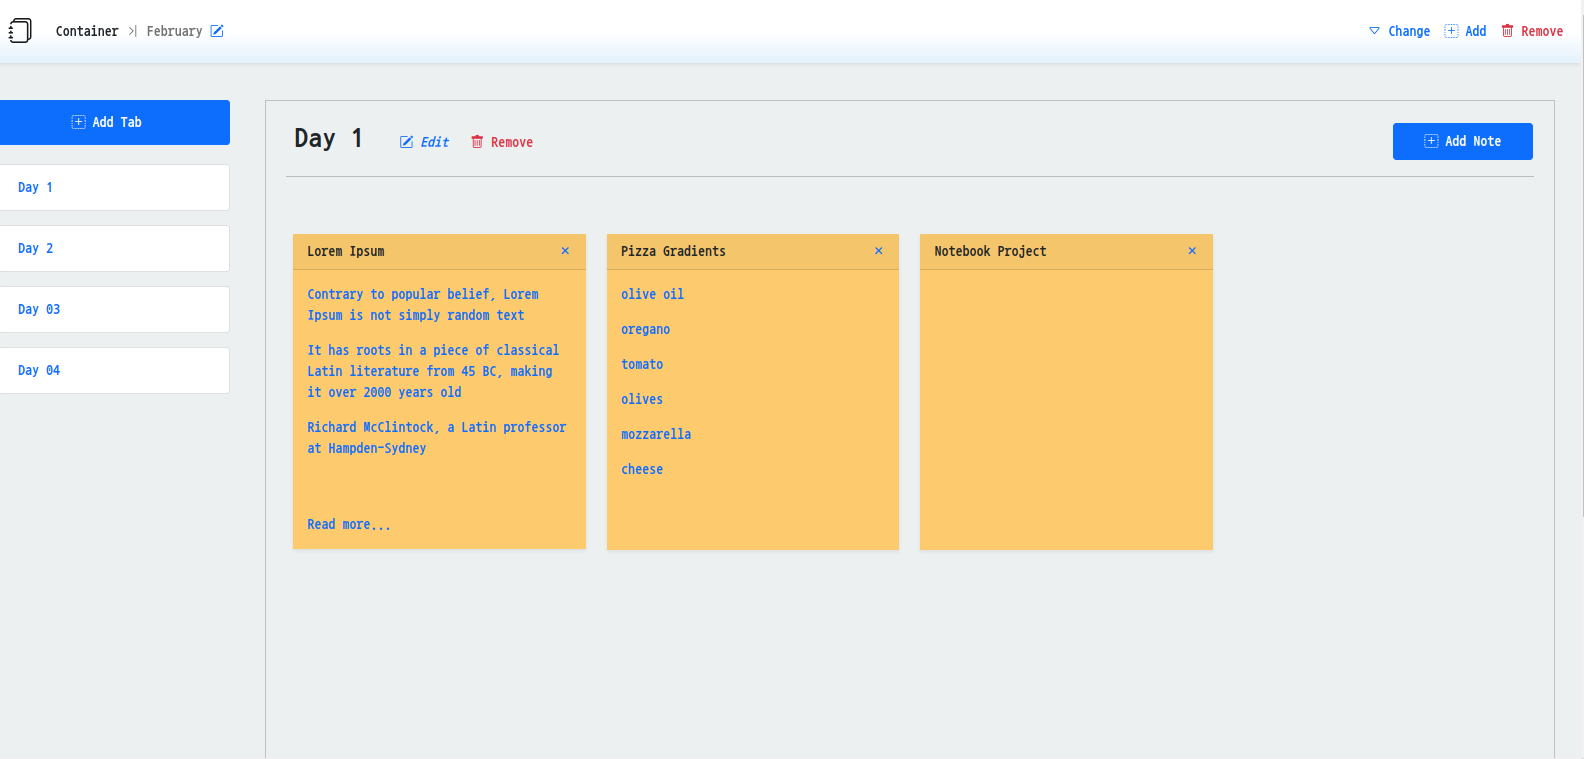
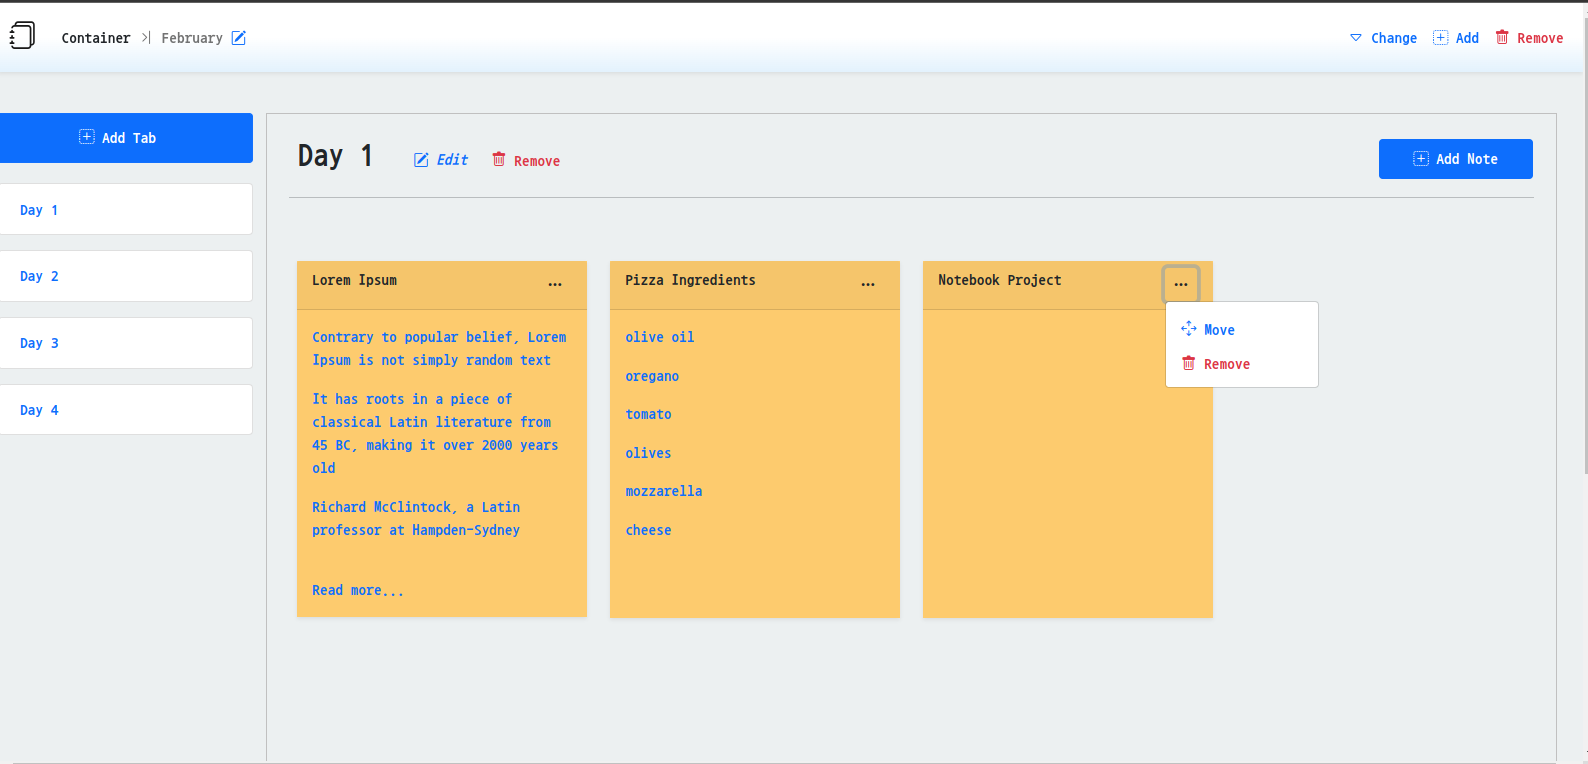
Added move notes

diff --git a/frontend/src/components/Note/NoteMoveTo.vue b/frontend/src/components/Note/NoteMoveTo.vue
@@ -44,15 +44,17 @@
 		methods: {
 			moveTo() {
 				const note = JSON.parse(localStorage.getItem('note'));
-				this.$store.dispatch('moveTo', {noteId: note.id, tabId: this.tabId})
-					.then(() => {
-						this.$store.dispatch('loadNotes', note.tabId);
-						document.querySelector('#note-move-select').selectedIndex = 0;
-						document.querySelector('#note-move-close-btn').click();
-					})
-					.catch((err) => {
-						console.log(err);
-					});
+				if(!note.tabId !== this.tabId) {
+					this.$store.dispatch('moveTo', {noteId: note.id, tabId: this.tabId})
+						.then(() => {
+							this.$store.dispatch('loadNotes', note.tabId);
+							document.querySelector('#note-move-select').selectedIndex = 0;
+							document.querySelector('#note-move-close-btn').click();
+						})
+						.catch((err) => {
+							console.log(err);
+						});
+					}
 
 			}
 		}
